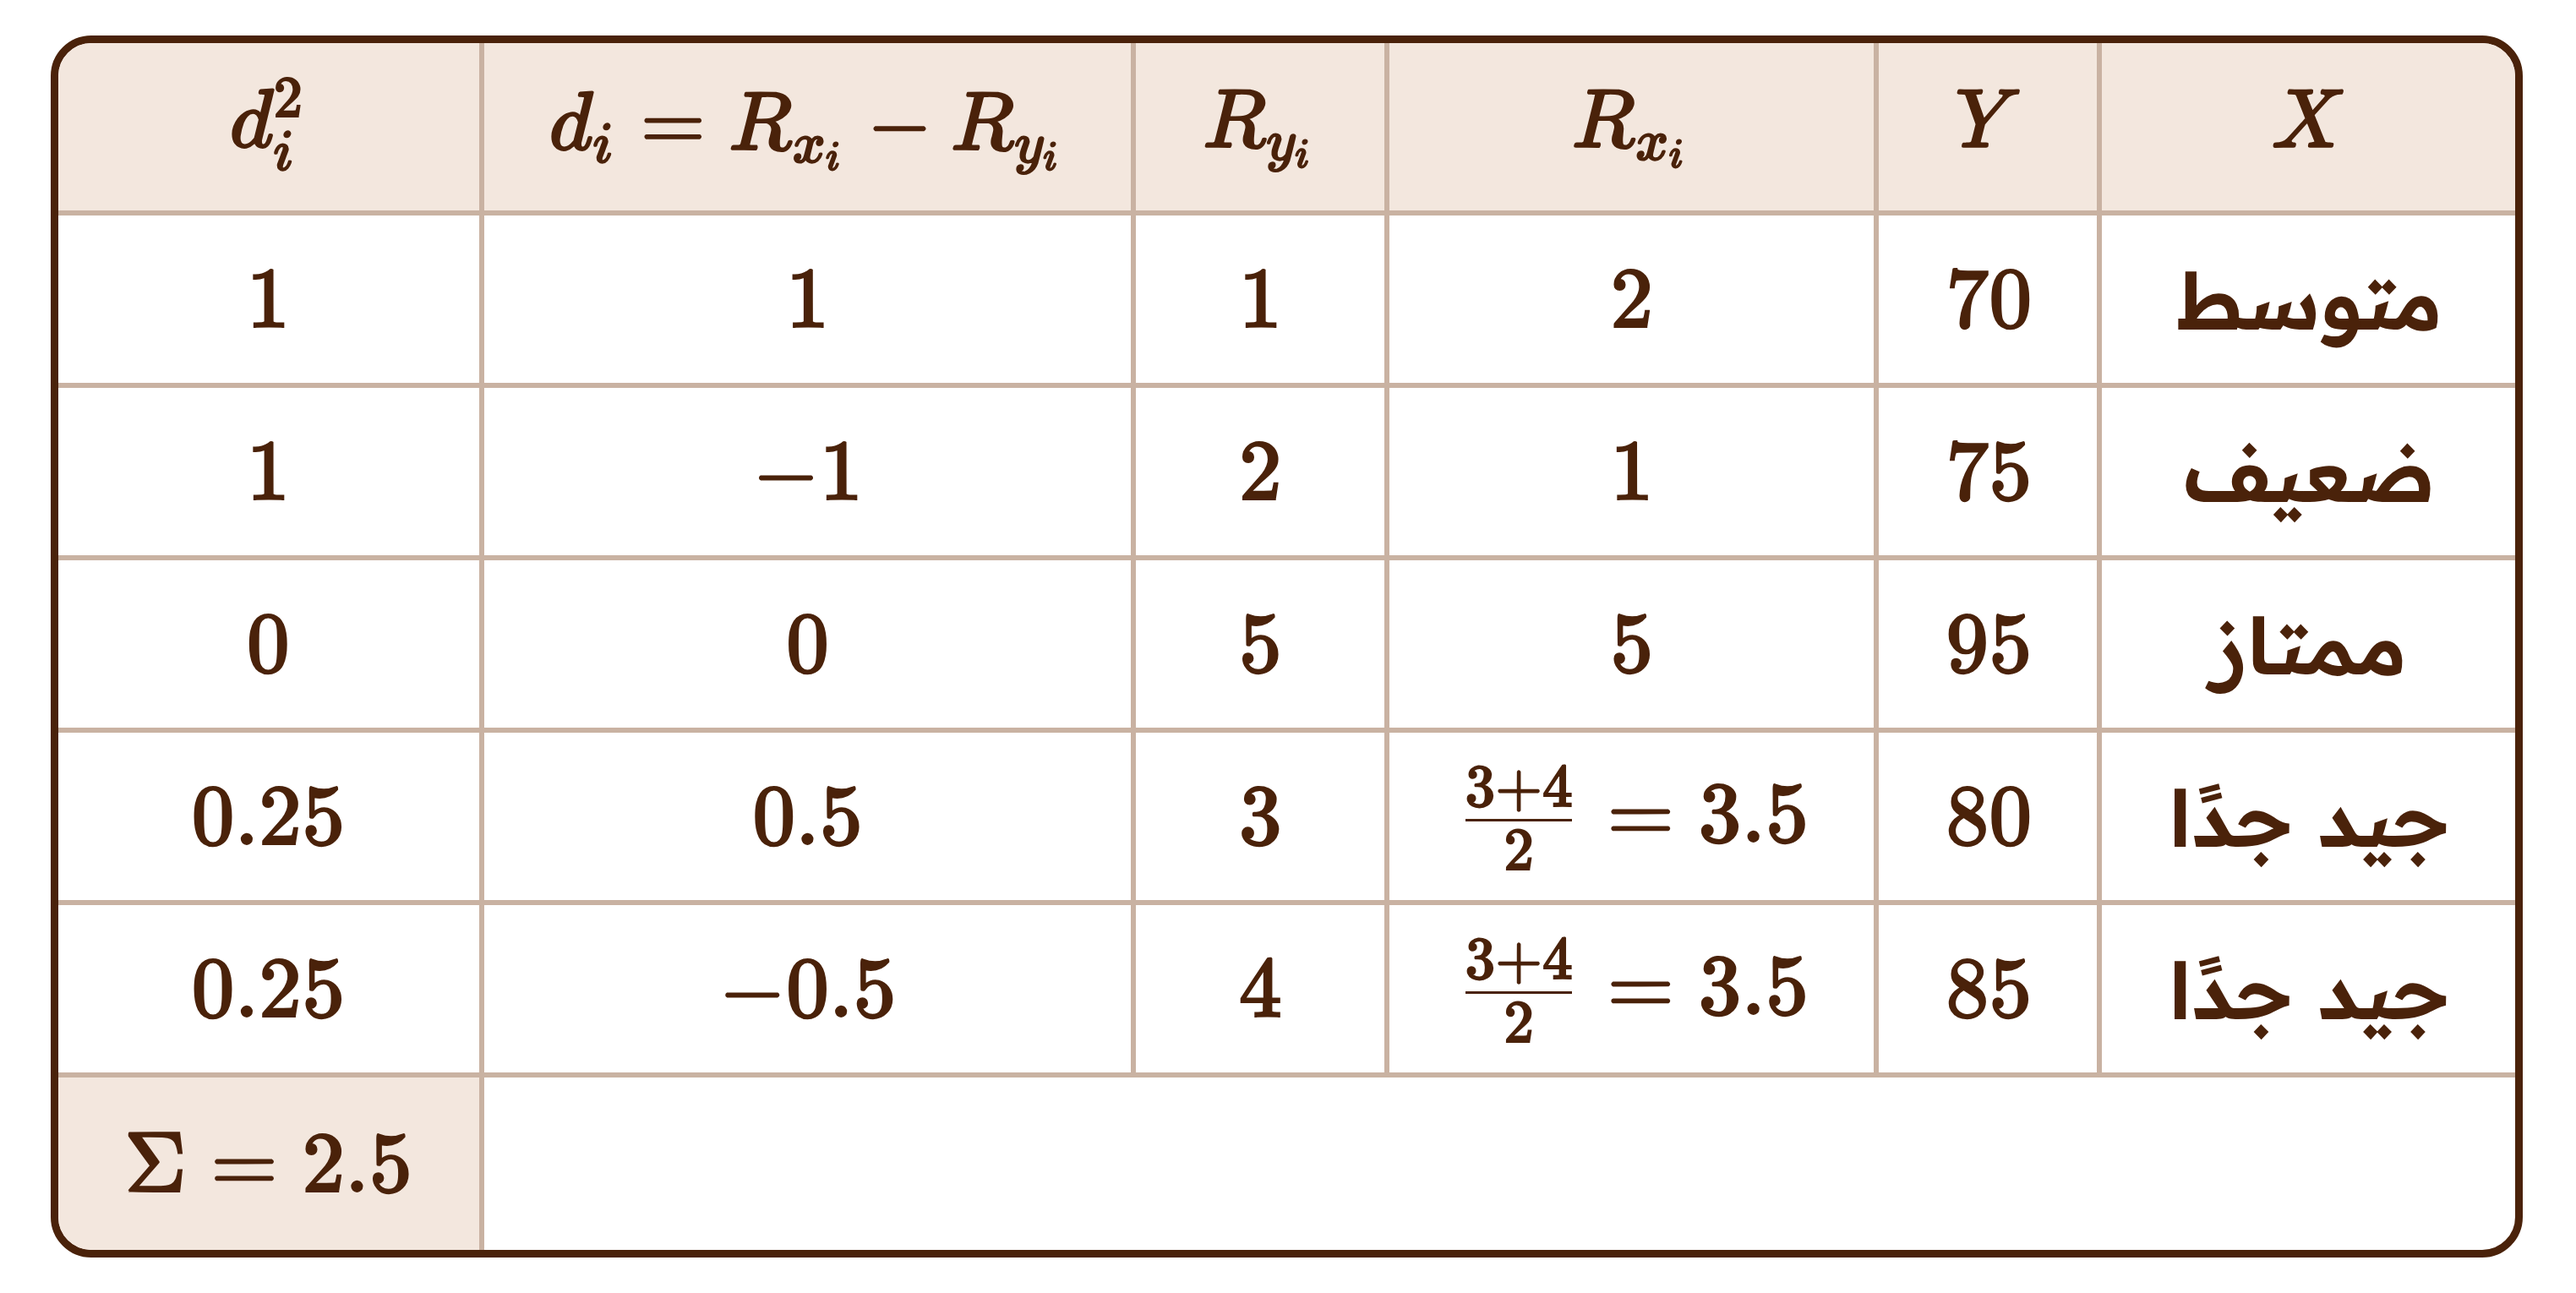
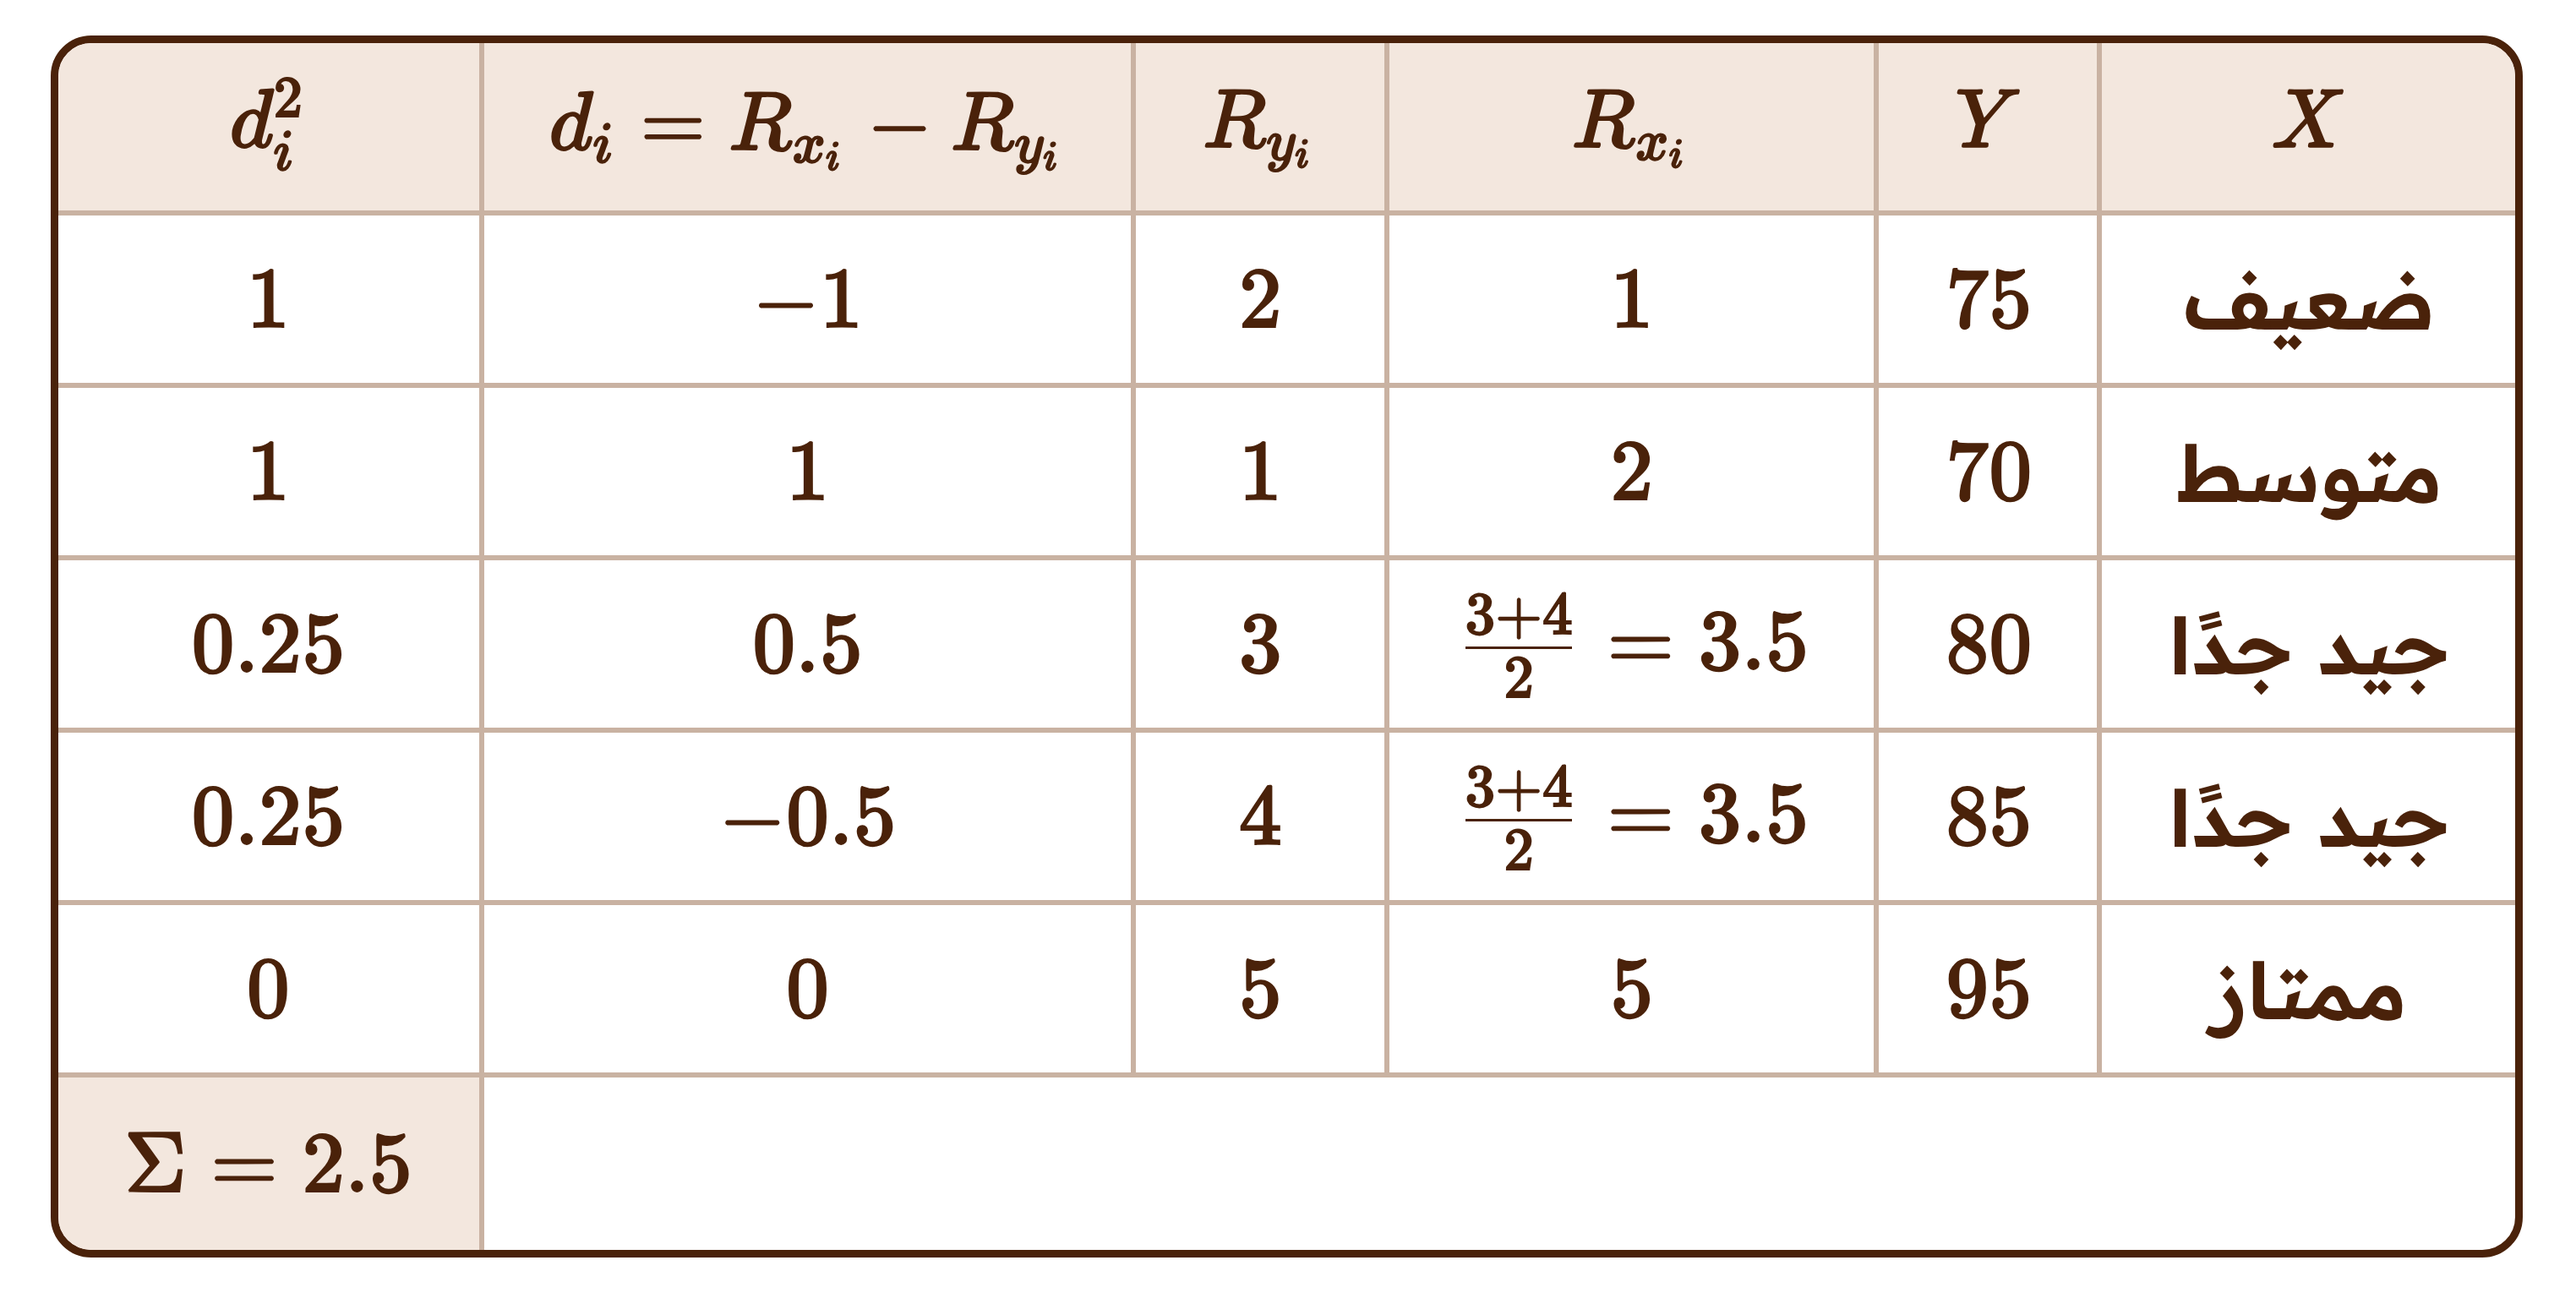
Spearman example 1: rank table rows sorted by X; save preference
Claude-Session: https://claude.ai/code/session_01P2W4DViX2DDJL3Qd7qfdx4

diff --git a/tools/statistics/ex_spearman1.js b/tools/statistics/ex_spearman1.js
@@ -10,6 +10,7 @@ function ranks(v){const s=v.map((x,i)=>[x,i]).sort((a,b)=>a[0]-b[0]);const r=[];
  while(i<s.length){let j=i;while(j+1<s.length&&s[j+1][0]===s[i][0])j++;const pos=[];for(let k=i;k<=j;k++)pos.push(k+1);
   for(let k=i;k<=j;k++)r[s[k][1]]={v:pos.reduce((a,b)=>a+b,0)/pos.length,pos};i=j+1;}return r;}
 const RX=ranks(X.map(x=>LV[x])), RY=ranks(Y), D=RX.map((r,i)=>r.v-RY[i].v), D2=D.map(d=>d*d), SD2=D2.reduce((a,b)=>a+b,0);
+const ORD=X.map((_,i)=>i).sort((a,b)=>LV[X[a]]-LV[X[b]]||a-b);
 const rs=1-6*SD2/(n*(n*n-1)); console.log({RX:RX.map(r=>r.v),RY:RY.map(r=>r.v),D,SD2,rs});
 const fmt=v=>String(+v.toFixed(4));
 const rk=r=>r.pos.length>1?K(`\\frac{${r.pos.join('+')}}{${r.pos.length}}=${fmt(r.v)}`):K(fmt(r.v));
@@ -23,7 +24,7 @@ const step1=`<table class="t"><tr class="hd"><th class="h">الرتبة الأو
 <tr><th class="h">الدرجة الفعلية ${K('Y')}</th>${sy.map(y=>`<td>${y}</td>`).join('')}</tr></table>`;
 // 3) جدول الرتب
 const step2=`<table class="t"><tr class="hd">${['X','Y','R_{x_i}','R_{y_i}','d_i=R_{x_i}-R_{y_i}','d_i^{2}'].map(h=>`<th>${K(h)}</th>`).join('')}</tr>
-${X.map((x,i)=>`<tr><td>${x}</td><td>${K(String(Y[i]))}</td><td>${rk(RX[i])}</td><td>${rk(RY[i])}</td><td>${K(fmt(D[i]))}</td><td>${K(fmt(D2[i]))}</td></tr>`).join('')}
+${ORD.map(i=>[X[i],i]).map(([x,i])=>`<tr><td>${x}</td><td>${K(String(Y[i]))}</td><td>${rk(RX[i])}</td><td>${rk(RY[i])}</td><td>${K(fmt(D[i]))}</td><td>${K(fmt(D2[i]))}</td></tr>`).join('')}
 <tr class="s"><td colspan="5"></td><td>${K('\\Sigma='+fmt(SD2))}</td></tr></table>`;
 // 4) القانون والتعويض والناتج
 const tex=String.raw`r_s=1-\dfrac{6\sum d_i^{2}}{n\left(n^{2}-1\right)}=1-\dfrac{6(${fmt(SD2)})}{${n}(${n*n}-1)}=\fcolorbox{${BOX}}{transparent}{$\;${fmt(rs)}\;$}`;

diff --git a/CLAUDE.md b/CLAUDE.md
@@ -50,7 +50,8 @@
   - الرتب تصاعدياً (الأضعف/الأقل = 1)، والمكرر يأخذ متوسط الرتب.
   - إجابة «حدد نوع الارتباط وقيّم قوته» كاملة داخل المربع (مثل «ارتباط خطي طردي قوي») — طلب المستخدم 2026-10-19.
   - عناوين الخطوات داخل الحل (1) 2) 3)) بلون برتقالي غامق #9a3412 — البرتقالي الفاتح #ea580c «غريب» (طلب المستخدم 2026-10-19).
-  - حل سبيرمان بثلاث خطوات مثل ملف القسم: (1) جدول الترتيب التصاعدي والرتب الأولية، (2) جدول الرتب X, Y, Rx, Ry, d, d² مع كتابة متوسط الرتب المكررة داخل الخلية مثل (3 + 4)/2 = 3.5، (3) التعويض في القانون.
+  - حل سبيرمان بثلاث خطوات مثل ملف القسم: (1) جدول الترتيب التصاعدي والرتب الأولية، (2) جدول الرتب X, Y, Rx, Ry, d, d² مع كتابة متوسط الرتب المكررة داخل الخلية مثل (3 + 4)/2 = 3.5، (3) التعويض في القانون. **(2026-10-25، طلب المستخدم) صفوف جدول الرتب (الخطوة 2) مرتبة تصاعديًا حسب X** (ضعيف ← متوسط ← جيد جدًا ← ممتاز، أو 2، 3، 5…) مو بترتيب البيانات الأصلي — أسهل في الشرح. والمكرر يبقى بترتيبه الأصلي بين بعض.
+  - صور الملزمة (كانفا): شفافة بالبني الغامق #4a220a، والقانون بالصيغة المختصرة (Σ بدون حدود)، والحل: القانون = التعويض = الناتج في سطر أفقي واحد. سبيرمان الدقيق يُكتب rs = r(Rx, Ry) = التعويض (مثل الكتاب). السكربتات `tools/statistics/` (t413، t414، ex_spearman1، ex_spearman_exact، formula_*).
   - المستخدم يبي الحسابات بجدول (بيرسون: x, y, xy, x², y² ومجاميعها؛ سبيرمان: X, Y, Rx, Ry, d, d²).
   - القيم الوسيطة اللي القطع يغيّر نتيجتها (مثل الميل b) تُكتب بأربع منازل (مثلاً 0.0961).
 - أكمل الفراغ: الإجابة فقط بدون مربع (مثل صح/خطأ).
